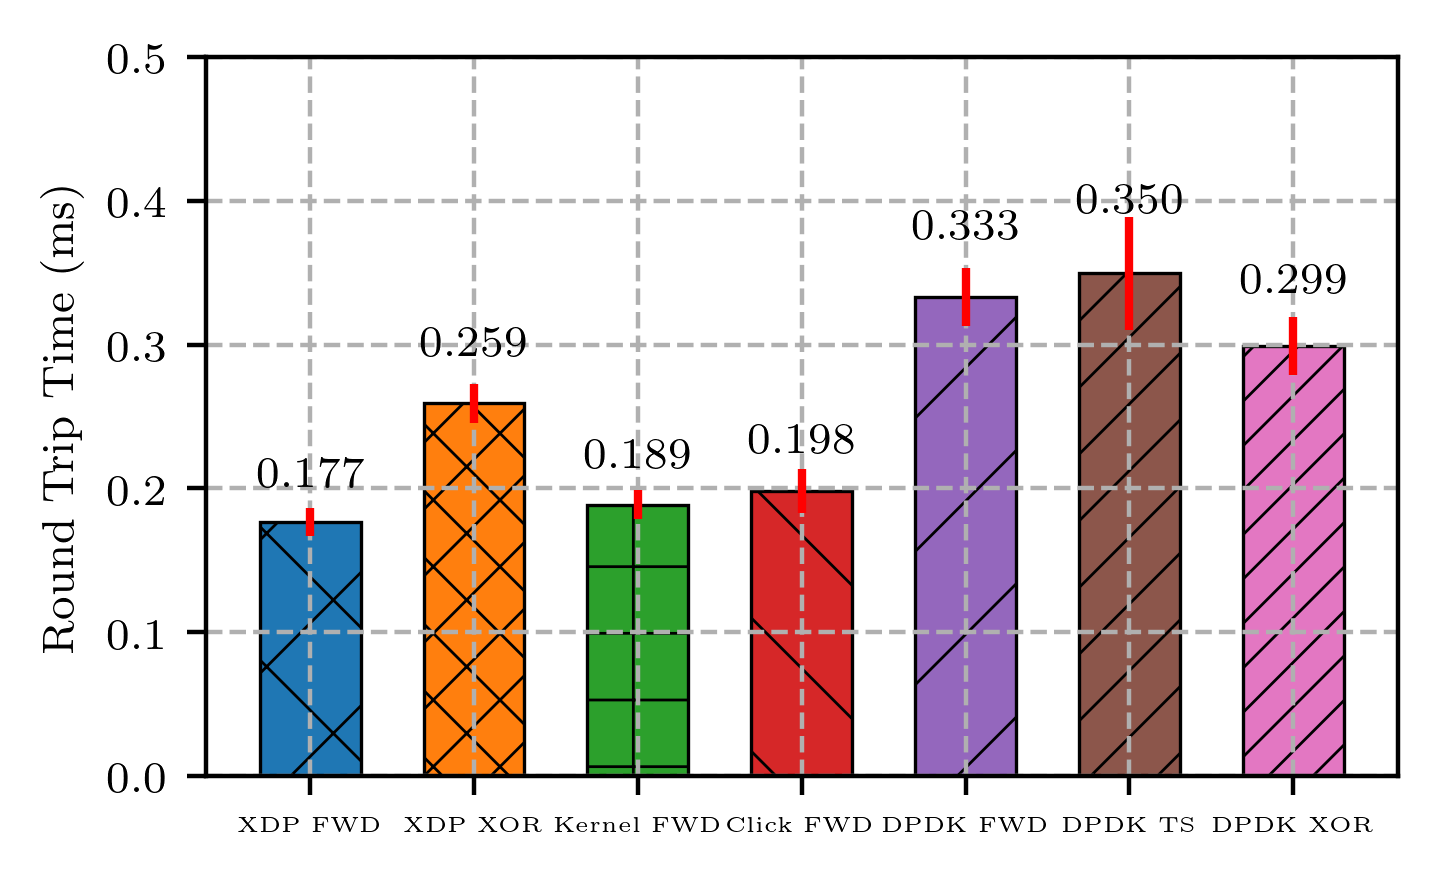
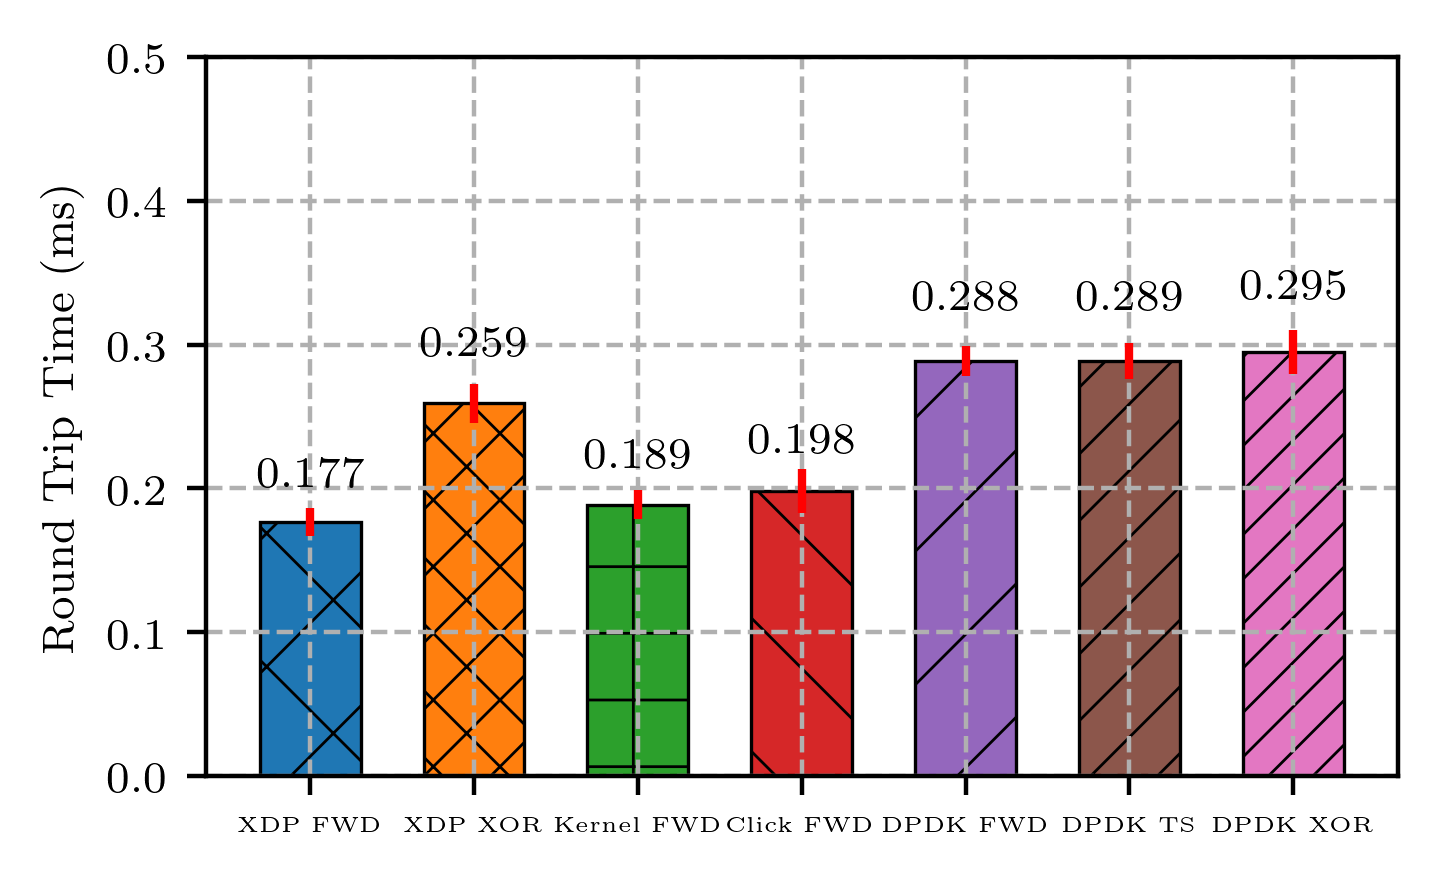
<data>: Add RTT results of the improved DPDK app

diff --git a/dpdk/app/udp_test/main.c b/dpdk/app/udp_test/main.c
@@ -88,6 +88,9 @@ static int packet_capturing = 0;
 /* Flag for processing operation of UDP segments */
 static int udp_proc_opt = 0;
 
+/* Forwarding with single port -> bounce packets */
+static int single_port = 0;
+
 /* Burst-based packet processing */
 /* Default maximal received packets each time
  * Smaller pkt_burst -> lower latency -> lower bandwidth
@@ -710,6 +713,8 @@ static const char short_options[]
 #define CMD_LINE_OPT_NO_PACKET_CAPTURING "no-packet-capturing"
 #define CMD_LINE_OPT_DEBUGGING "debugging"
 #define CMD_LINE_OPT_NO_DEBUGGING "no-debugging"
+#define CMD_LINE_OPT_SINGLE_PORT "single-port"
+#define CMD_LINE_OPT_NO_SINGLE_PORT "no-single-port"
 
 enum {
         /* long options mapped to a short option */
@@ -726,6 +731,8 @@ static const struct option lgopts[] = { { CMD_LINE_OPT_MAC_UPDATING,
         { CMD_LINE_OPT_NO_PACKET_CAPTURING, no_argument, &packet_capturing, 0 },
         { CMD_LINE_OPT_DEBUGGING, no_argument, &debugging, 1 },
         { CMD_LINE_OPT_NO_DEBUGGING, no_argument, &debugging, 0 },
+        { CMD_LINE_OPT_SINGLE_PORT, no_argument, &single_port, 1 },
+        { CMD_LINE_OPT_NO_SINGLE_PORT, no_argument, &single_port, 0 },
         { NULL, 0, 0, 0 } };
 
 /* Parse the argument given in the command line of the application */
@@ -952,6 +959,12 @@ int main(int argc, char** argv)
                 if (ret < 0)
                         rte_exit(EXIT_FAILURE,
                             "Can not initialize the pdump framework.");
+        }
+
+        RTE_LOG(INFO, USER1, "Single port: %s\n",
+            single_port ? "enabled" : "disabled");
+        if (single_port) {
+                RTE_LOG(INFO, USER1, "[WARN] Port mask is ignored.\n");
         }
 
         RTE_LOG(INFO, USER1,

diff --git a/evaluation/round_trip_time/plot.py b/evaluation/round_trip_time/plot.py
@@ -90,9 +90,11 @@ def plot_ipd():
     cmap = cm.get_cmap('tab10')
     techs = ['udp_rtt_' + x +
              '_%sms.csv' for x in (
-                 'xdp_fwd', 'xdp_xor_1400B', 'lkfwd', 'click_fwd', 'dpdk_fwd',
-                 'dpdk_appendts',
-                 'dpdk_xor_1400B')
+                 'xdp_fwd', 'xdp_xor_1400B',
+                 'lkfwd',
+                 'click_fwd',
+                 'dpdk_fwd_1400B', 'dpdk_appendts_1400B', 'dpdk_xor_1400B'
+             )
              ]
     xtick_labels = ('XDP FWD', 'XDP XOR', 'Kernel FWD', 'Click FWD',
                     'DPDK FWD', 'DPDK TS', 'DPDK XOR')
